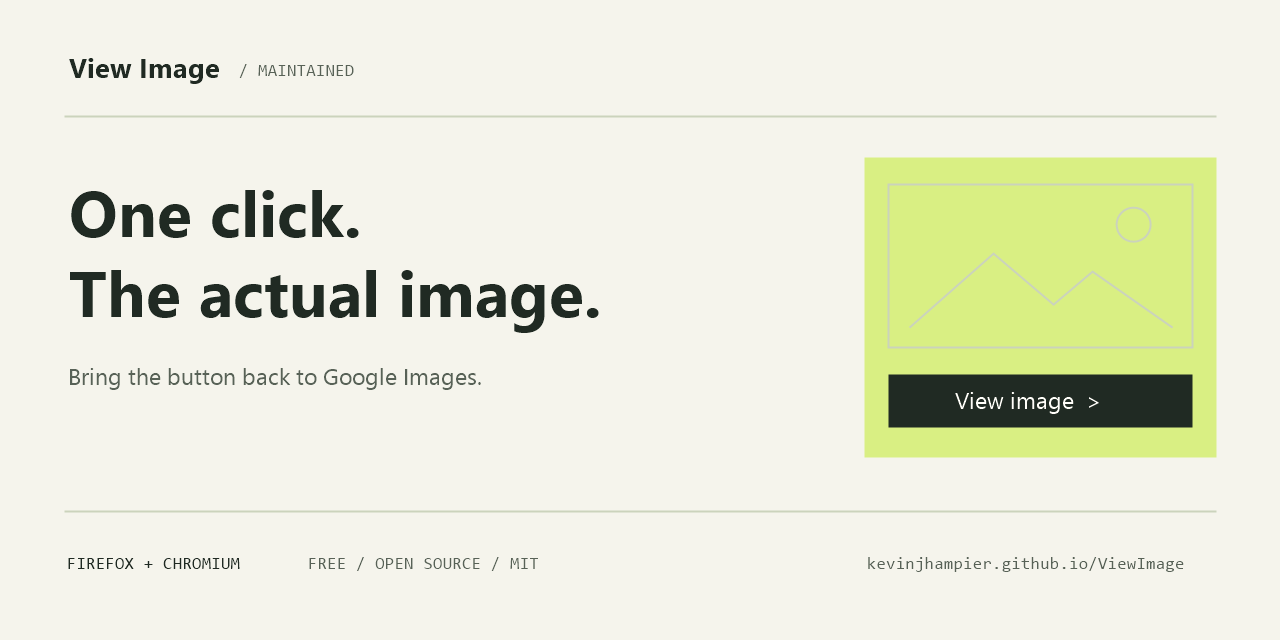
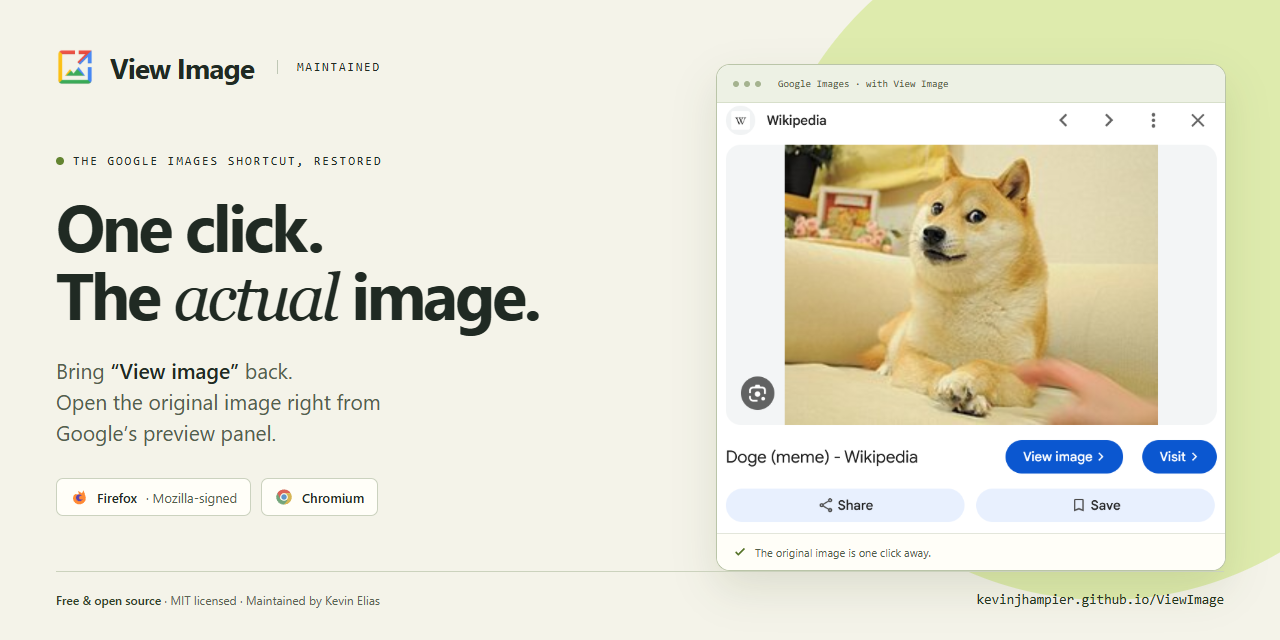
docs: render a complete social preview from HTML

diff --git a/docs/assets/social-preview.html b/docs/assets/social-preview.html
@@ -1,0 +1,59 @@
+<!doctype html>
+<html lang="en">
+<head>
+  <meta charset="utf-8">
+  <meta name="viewport" content="width=1280, initial-scale=1">
+  <meta name="robots" content="noindex">
+  <title>View Image — social preview artwork</title>
+  <style>
+    * { box-sizing: border-box; }
+    html, body { width: 1280px; height: 640px; margin: 0; overflow: hidden; }
+    body { font-family: "Segoe UI", Arial, sans-serif; background: #f4f3e9; color: #202a23; }
+    .canvas { position: relative; width: 1280px; height: 640px; padding: 46px 54px; isolation: isolate; }
+    .canvas::before { content: ""; position: absolute; z-index: -1; width: 690px; height: 690px; border-radius: 50%; background: #deebad; left: 760px; top: -90px; }
+    .brand { display: flex; align-items: center; gap: 14px; font-size: 28px; font-weight: 700; letter-spacing: -1px; }
+    .brand img { width: 42px; height: 42px; }
+    .brand span { font: 12px Consolas, monospace; letter-spacing: 1.8px; font-weight: normal; margin-left: 9px; padding-left: 19px; border-left: 1px solid #bfc7b5; }
+    .copy { position: absolute; left: 56px; top: 154px; width: 585px; }
+    .eyebrow { display: flex; align-items: center; gap: 9px; font: 12px Consolas, monospace; letter-spacing: 2px; margin: 0 0 24px; }
+    .eyebrow::before { content: ""; width: 8px; height: 8px; background: #638431; border-radius: 50%; }
+    h1 { font-size: 65px; line-height: 1.04; letter-spacing: -3.2px; font-weight: 700; margin: 0 0 24px; }
+    h1 em { font-family: Georgia, serif; font-weight: 400; }
+    .description { font-size: 21px; line-height: 1.48; color: #52604c; max-width: 490px; margin: 0; }
+    .description strong { color: #202a23; font-weight: 600; }
+    .platforms { display: flex; gap: 10px; margin-top: 30px; }
+    .pill { display: inline-flex; align-items: center; gap: 9px; height: 38px; padding: 0 13px; background: #fffef8; border: 1px solid #cbd2bf; border-radius: 7px; font-size: 13px; font-weight: 600; }
+    .pill svg { width: 18px; height: 18px; }
+    .demo { position: absolute; top: 64px; right: 54px; width: 510px; margin: 0; background: white; border: 1px solid #bac5a8; border-radius: 14px; overflow: hidden; box-shadow: 0 18px 42px #26360c1f; }
+    .toolbar { height: 38px; display: flex; gap: 17px; align-items: center; padding: 0 16px; color: #556245; background: #edf1e4; font: 10px Consolas, monospace; border-bottom: 1px solid #d7dfca; }
+    .dots { display: flex; gap: 5px; }
+    .dots i { width: 6px; height: 6px; background: #a5b38f; border-radius: 50%; }
+    .demo img { display: block; width: 508px; height: auto; }
+    .caption { height: 37px; display: flex; align-items: center; gap: 8px; padding: 0 16px; background: #fffef8; font-size: 11px; color: #52604c; border-top: 1px solid #e3e6db; }
+    .caption svg { width: 14px; height: 14px; color: #567329; }
+    .footer { position: absolute; left: 56px; right: 56px; bottom: 32px; padding-top: 19px; border-top: 1px solid #cbd2bd; display: flex; justify-content: space-between; align-items: center; font-size: 12px; color: #5a6553; }
+    .footer strong { font-weight: 500; color: #303e28; }
+    .url { font: 14px Consolas, monospace; letter-spacing: -0.2px; color: #26351f; }
+  </style>
+</head>
+<body>
+  <main class="canvas">
+    <div class="brand"><img src="icon.png" alt="">View Image<span>MAINTAINED</span></div>
+    <div class="copy">
+      <p class="eyebrow">THE GOOGLE IMAGES SHORTCUT, RESTORED</p>
+      <h1>One click.<br>The <em>actual</em> image.</h1>
+      <p class="description">Bring <strong>“View image”</strong> back.<br>Open the original image right from<br>Google’s preview panel.</p>
+      <div class="platforms">
+        <span class="pill"><svg viewBox="0 0 24 24" fill="none" aria-hidden="true"><path d="M18 3l-2 4-5-3 1 5-5-1C3 10 3 17 7 20c5 4 14 1 14-6 0-4-2-8-3-11Z" fill="#ff8a35"/><path d="M16 10c-6-4-10 2-7 6 2 3 8 2 8-2-1 2-5 2-5-1 0-2 2-3 4-3Z" fill="#5d43b0"/></svg>Firefox <span style="font-weight:400;color:#52604c">· Mozilla-signed</span></span>
+        <span class="pill"><svg viewBox="0 0 24 24" aria-hidden="true"><circle cx="12" cy="12" r="10" fill="#e3ebd6"/><path d="M12 2a10 10 0 019 5H10l-4 7L3 7a10 10 0 019-5" fill="#dc6359"/><path d="M21 7a10 10 0 01-9 15l5-9-7-6" fill="#d7b555"/><path d="M12 22a10 10 0 01-9-15l5 9h9" fill="#73a57b"/><circle cx="12" cy="12" r="5" fill="#fffef8"/><circle cx="12" cy="12" r="3.6" fill="#6095c9"/></svg>Chromium</span>
+      </div>
+    </div>
+    <figure class="demo">
+      <div class="toolbar"><span class="dots" aria-hidden="true"><i></i><i></i><i></i></span>Google Images · with View Image</div>
+      <img src="example.png" width="743" height="629" alt="Real Google Images preview with the restored View image button">
+      <figcaption class="caption"><svg viewBox="0 0 16 16" fill="none" aria-hidden="true"><path d="M3 8l3 3 7-7" stroke="currentColor" stroke-width="2"/></svg>The original image is one click away.</figcaption>
+    </figure>
+    <footer class="footer"><span><strong>Free &amp; open source</strong> · MIT licensed · Maintained by Kevin Elias</span><span class="url">kevinjhampier.github.io/ViewImage</span></footer>
+  </main>
+</body>
+</html>

diff --git a/docs/MAINTAINING.md b/docs/MAINTAINING.md
@@ -25,8 +25,20 @@ wording if the signing or distribution method changes.
 `docs/assets/social-preview.png` is a 1280 x 640 repository/site sharing card.
 It is set in the site's Open Graph/Twitter tags and should also be uploaded at
 GitHub repository Settings → Social preview → Edit → Upload an image.
-The sharing card can be regenerated on Windows with
-`./scripts/render-social-preview.ps1` (built-in .NET drawing and system fonts).
+The sharing card is a real browser capture of `docs/assets/social-preview.html`,
+which uses the supplied Google Images screenshot rather than a placeholder.
+To regenerate it on Windows, use Node.js 24, Microsoft Edge, and Playwright:
+
+```sh
+npm install --no-save --package-lock=false playwright
+npm run render:social
+```
+
+Playwright is an optional artwork tool, not an extension dependency. The script
+starts an isolated headless Edge instance, waits for fonts and both images, and
+writes a 1280 x 640 PNG. An existing Playwright installation can instead be used
+by setting `PLAYWRIGHT_MODULE` to its module directory. The current image was
+rendered with Playwright 1.62.1 and the Windows Segoe UI / Georgia fonts.
 
 ## Google Search Console
 
